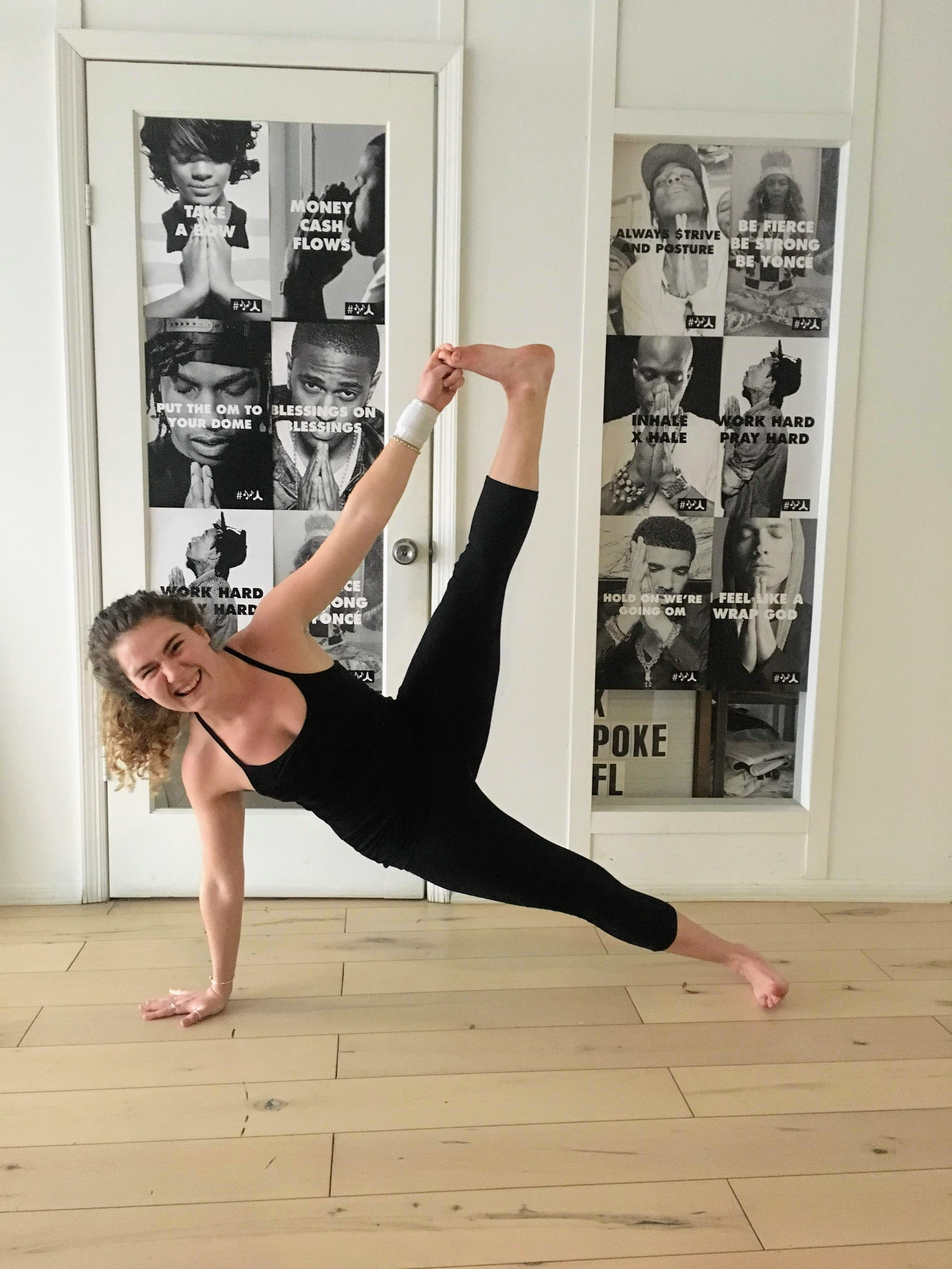
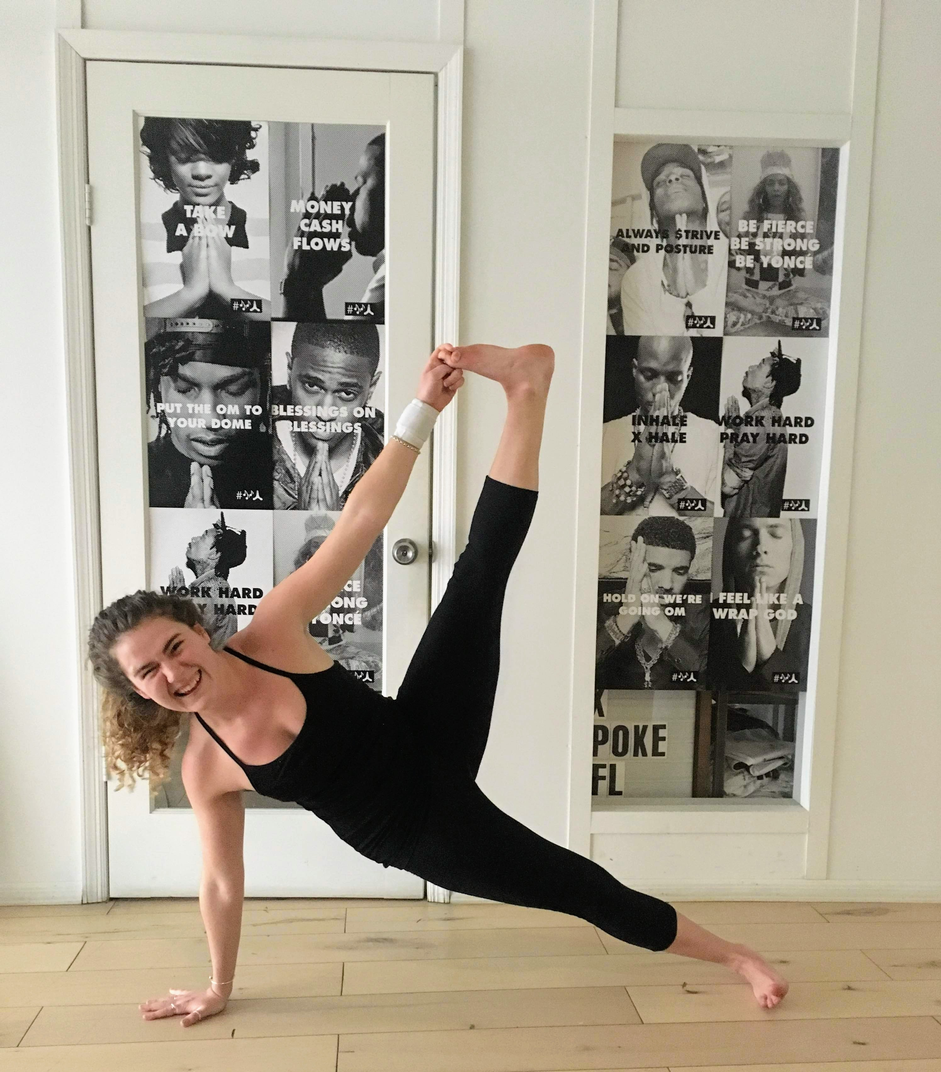
yoga instructor page

diff --git a/yoga.html b/yoga.html
@@ -8,6 +8,7 @@
     <link rel="stylesheet" href="https://maxcdn.bootstrapcdn.com/font-awesome/4.4.0/css/font-awesome.min.css">
 
 	<link rel="stylesheet" type="text/css" href="navbar.css">
+	<link rel="stylesheet" type="text/css" href="yoga.css">
 </head>
 <body>
 	<div id="navbar">
@@ -21,9 +22,32 @@
 			<li><a href="/travel.html">Travel</a></li>
 		</ul>
 	</div>
-	<div>
-		<img src="images/yoga.JPG">
-      	<p>I am RYT 200 certified from Y7 Studio.</p>
-    </div>
+	<div class="container">
+		<div class="row">
+			<div class="col-md-8">
+				<div id="schedule">
+					<h1>Flow with Me</h1>
+					<h4>Events</h4>
+					<p>No Upcoming Events.</p>
+					<h4>Google Employees</h4>
+					<p>Check the gFit NYC schedule for my weekly Vinyassa Power Flow class.</p>
+					<h4>Privates</h4>
+					<p><a href="mailto:berkowitzas@gmail.com" title="email">Contact me</a> to inquire about teaching privates.</p>
+				</div>
+				<div id="music">
+					<iframe src="https://open.spotify.com/follow/1/?uri=spotify:user:1255731923&size=detail&theme=light&show-count=0" width="300" height="56" scrolling="no" frameborder="0" style="border:none; overflow:hidden;" allowtransparency="true"></iframe>
+					<div>
+						<h4>This week I'm flowing to:</h4>
+						<iframe src="https://open.spotify.com/embed/user/1255731923/playlist/2VEf2bhVdkt2qBZSo17Lfu?si=iETXu9WZRxuLnusI21LH3w" width="300" height="80" frameborder="0" allowtransparency="true" allow="encrypted-media"></iframe>
+					</div>
+				</div>
+			</div>
+			<div class="col-md-4">
+				<img id="pose" src="images/yoga.JPG">
+				<h2>RYT 200</h2>
+				<p>I received my certification from <a href="www.y7-studio.com">Y7 Studio</a> through the 2019 Winter Weekend Teacher Training.</p>
+			</div>
+	    </div>
+	</div>
 </body>
 </html>

diff --git a/yoga.css b/yoga.css
@@ -1,0 +1,20 @@
+.container {
+	margin-top: 2em;
+}
+
+h1 {
+	text-align: center;
+}
+
+h4 {
+	color: midnightblue;
+}
+
+#pose {
+	max-width: 100%;
+	margin-top: 20px;
+}
+
+#music {
+	margin-top: 4em;
+}
